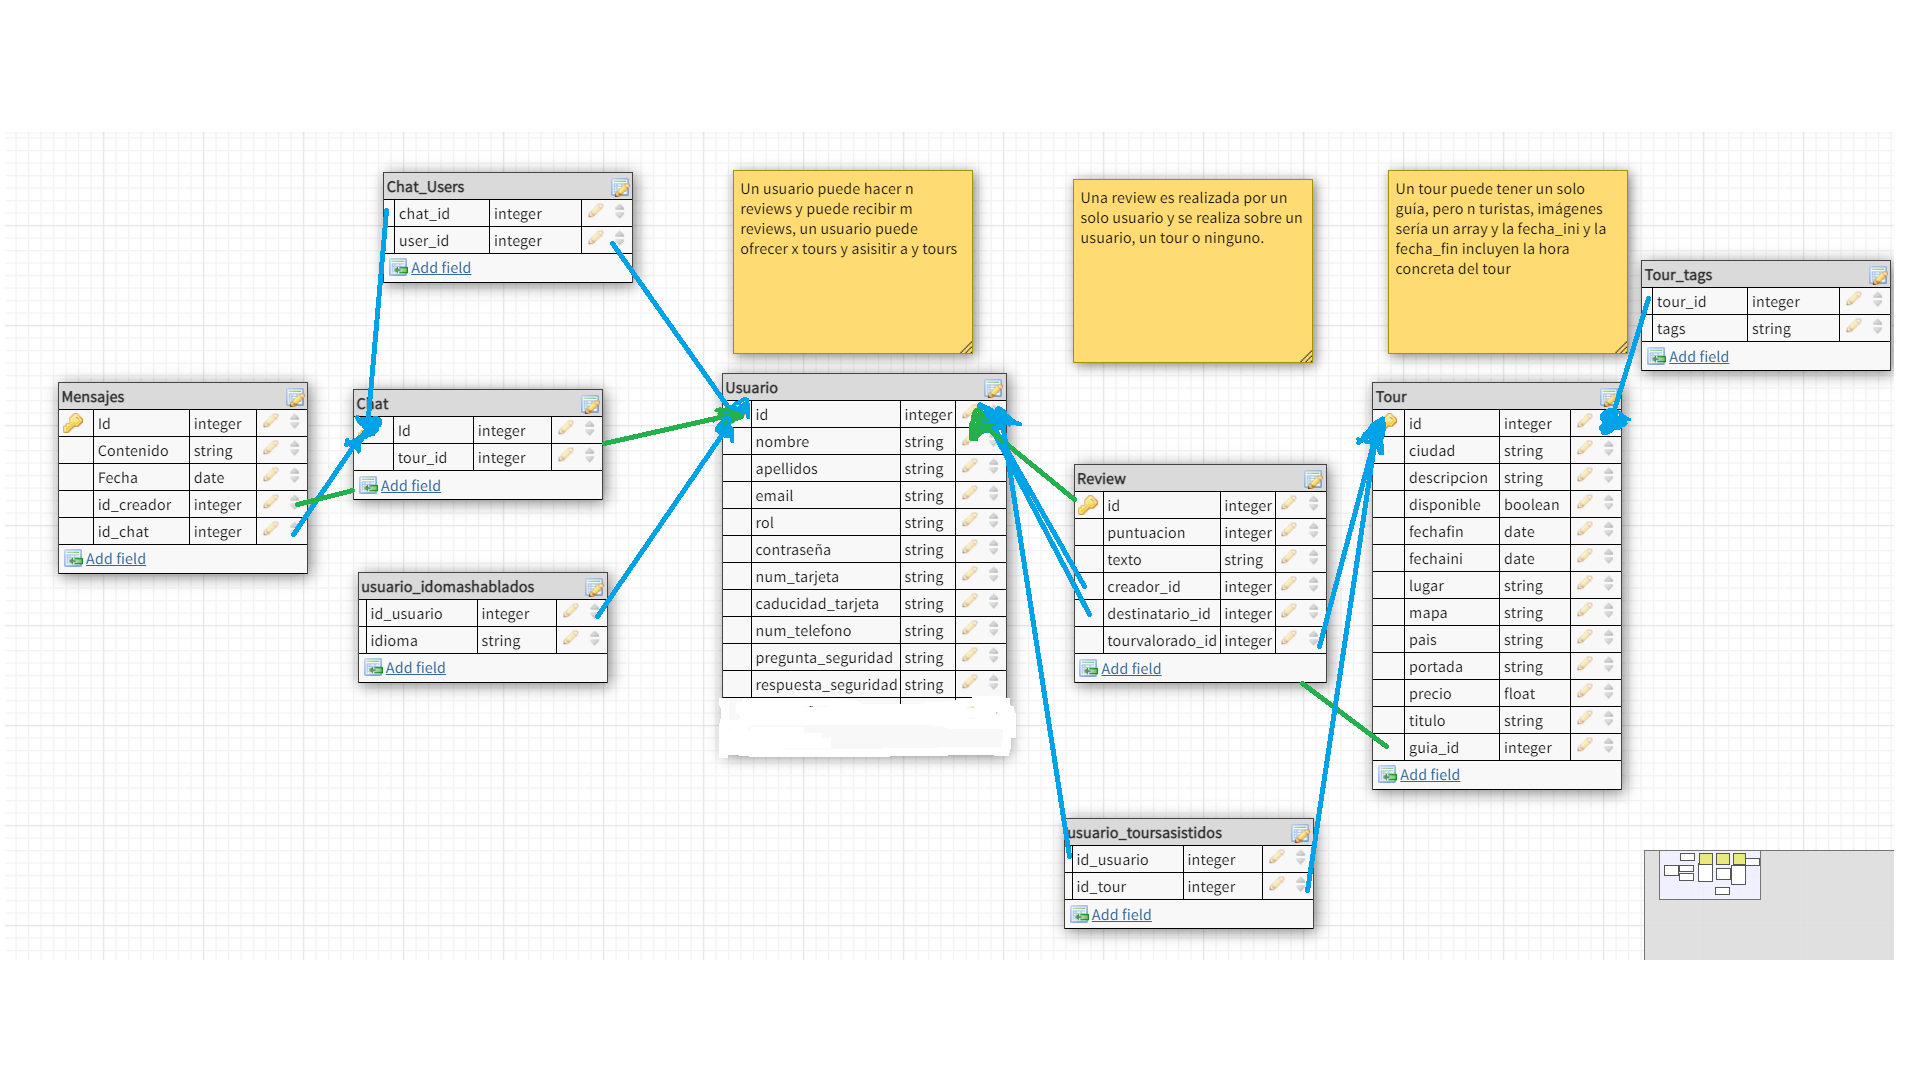
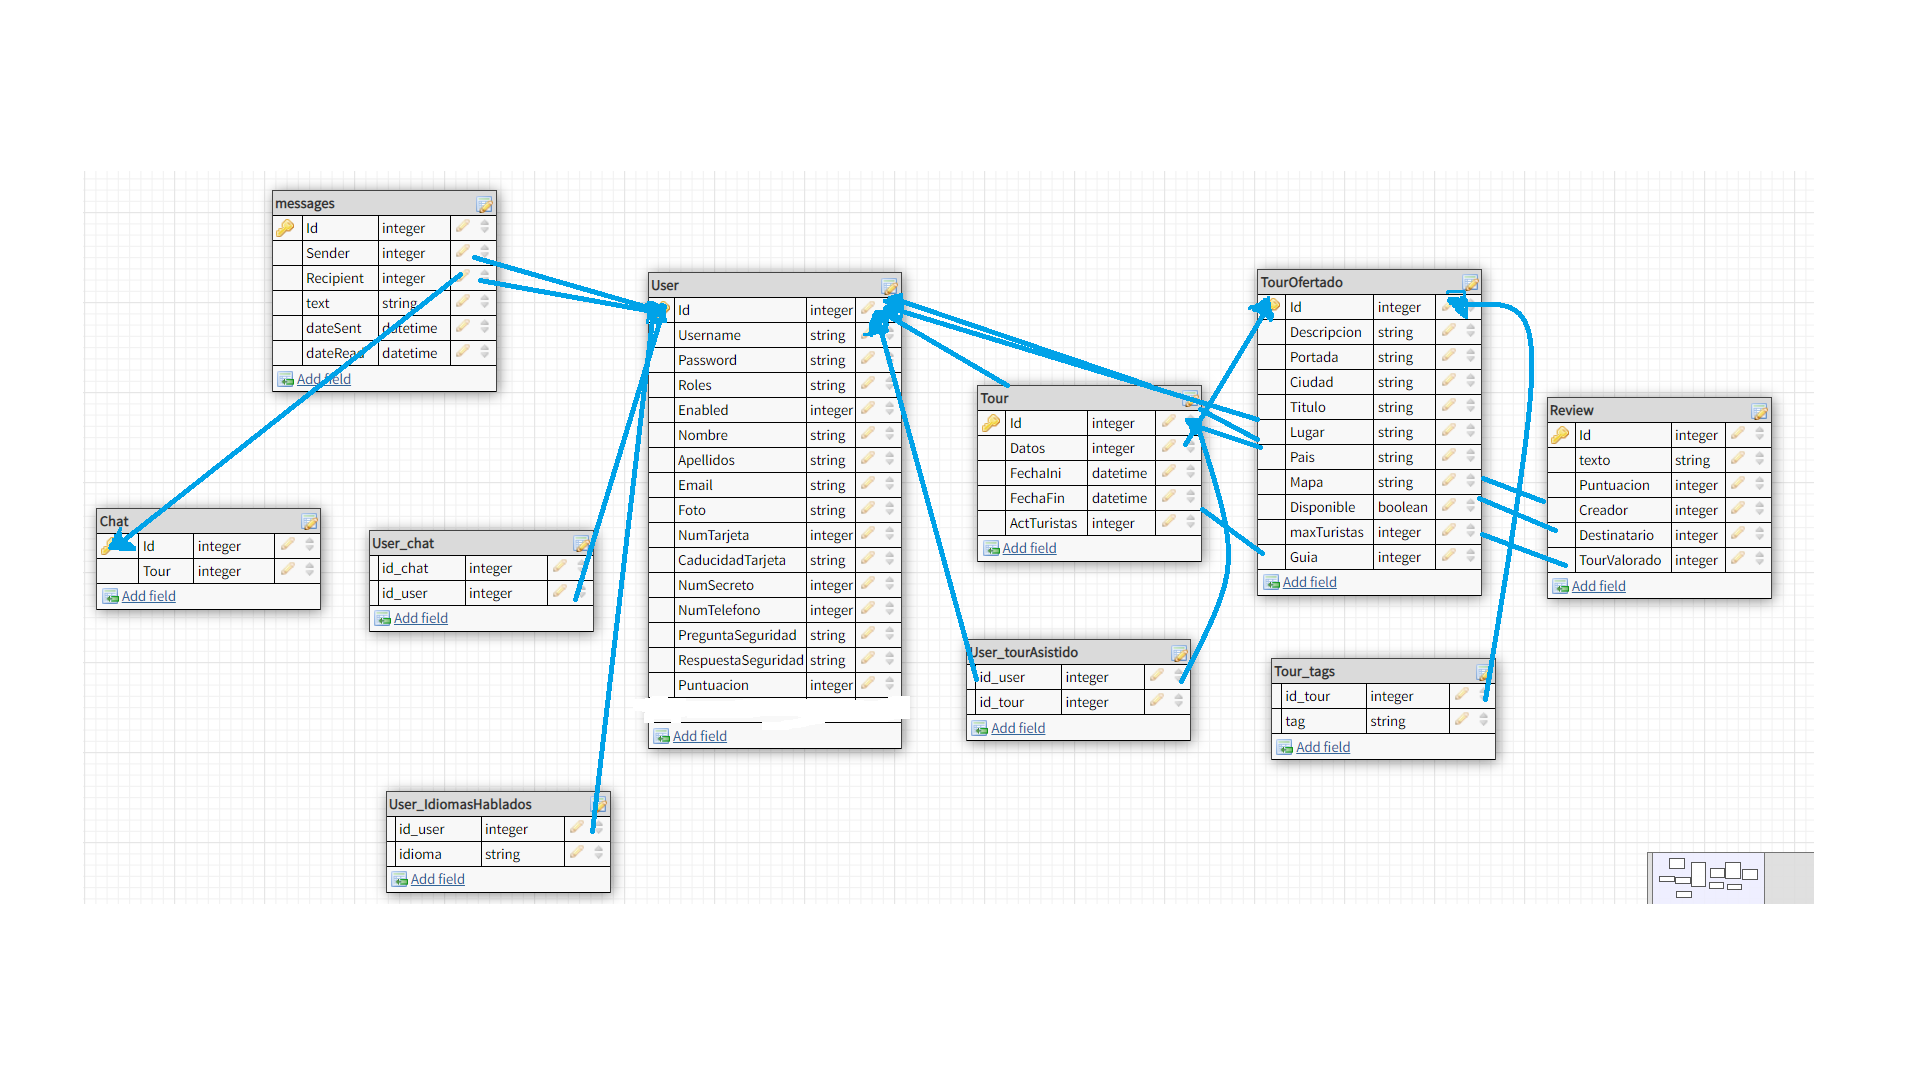
actualizado diagrama de la bd

Changed region(s): [[0.0, 0.1528, 1.0, 0.8861], [0.1875, 0.7028, 0.3438, 0.8556], [0.8438, 0.7639, 1.0, 0.8861]]

diff --git a/src/main/resources/templates/leeme.html b/src/main/resources/templates/leeme.html
@@ -57,9 +57,9 @@
     <ul>
         <li><a th:href="@{/}">Home:</a> es la primera pagina que ve el usuario al entrar en la aplicacion. Aqui se encuentra el buscador de toures y el resultado de la busqueda.</li>
         <li><a th:href="@{/tour/1}">Tour:</a> aqui se ven todos los datos relativos a un tour concreto, seleccionado por el usuario. EL enlace dirige al tour 1.</li>
-        <li><a th:href="@{${session.u.id}+'/EditarDatos'}">EditarDatos:</a>Permite editar los datos personales del usuario.</li>
-        <li><a th:href="@{${session.u.id}+'/datosPrivados'}">DatosPrivados:</a>Contiene los datos personales del usuario.</li>
-        <li><a th:href="@{${session.u.id}+'/perfil'}">Perfil: </a> aqui se ven todos los datos relativos al usuario, su informacion personal y toures realizados o por realizar.</li>
+        <li><a th:href="@{${session.u.Id}+'/EditarDatos'}">EditarDatos:</a>Permite editar los datos personales del usuario.</li>
+        <li><a th:href="@{${session.u.Id}+'/datosPrivados'}">DatosPrivados:</a>Contiene los datos personales del usuario.</li>
+        <li><a th:href="@{${session.u.Id}+'/perfil'}">Perfil: </a> aqui se ven todos los datos relativos al usuario, su informacion personal y toures realizados o por realizar.</li>
         <h1>No funcionan</h1>
         <li><a th:href="@{/admin/}">Admin:</a> aqui se muestra un grafico con estadisticas de la aplicacion y un panel de mandos para el administrador.</li>
         <li><a th:href="@{/admin/reportes-usuarios}">Reportes usuarios:</a> Aqui se muestran las incidencias de los guías y los usuarios</li>
@@ -73,7 +73,7 @@
     <p>principal.feature: prueba el proceso de apuntarse a un tour por parte de un usuario. Empieza haciendo login, despues selecciona un tour y se inscribe en él</p>
     <p>secondary.feature: prueba el proceso de registro de usuario, de creacion de un tour y de actualizacion de un dato privado</p>
 
-    <h2>Diagrama de clases(desactualizado)</h2>
+    <h2>Diagrama de clases(actualizado)</h2>
     <img th:src="@{/img/diagrama.png}" alt="Diagrama de clases" ></span>
 
     <h2>Cambios respecto de la última entrega</h2>

diff --git a/src/main/java/es/ucm/fdi/iw/gotour/SecurityConfig.java b/src/main/java/es/ucm/fdi/iw/gotour/SecurityConfig.java
@@ -56,7 +56,7 @@ public class SecurityConfig extends WebSecurityConfigurerAdapter {
 	    http
 	        .authorizeRequests()
 				//.antMatchers("**").permitAll()
-	            .antMatchers("/css/**", "/js/**", "/img/**", "/", "/error", "/registro", "/user/registro2", "/leeme").permitAll()
+	            .antMatchers("/css/**", "/js/**", "/img/**", "/", "/error", "/registro", "/user/registro2").permitAll()
 	            .antMatchers("/admin/**").hasRole("ADMIN")		  // <-- administration
 	            .anyRequest().authenticated()
 	            .and()
